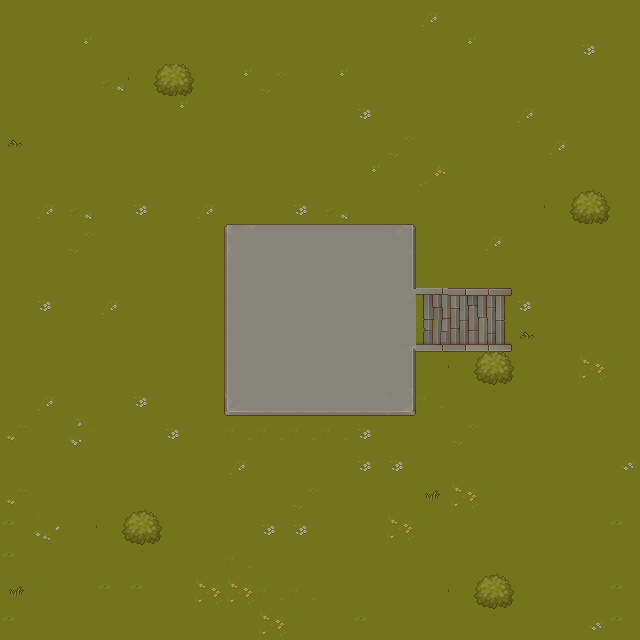
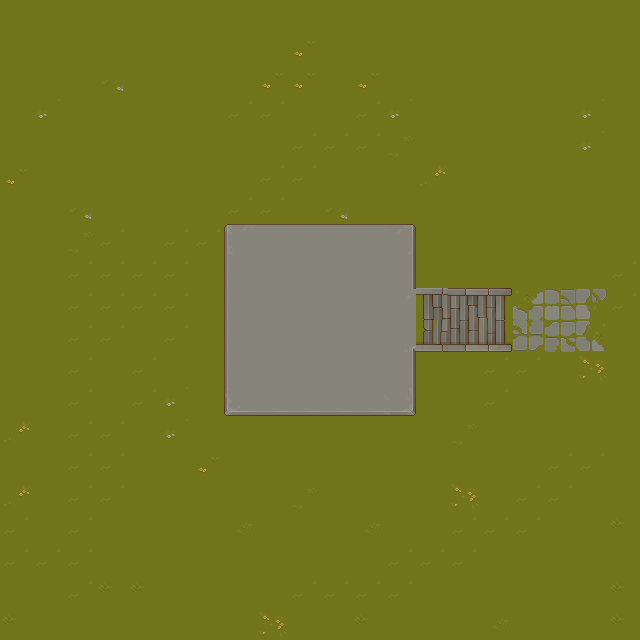
update map loader

diff --git a/src/map/map.ts b/src/map/map.ts
@@ -1,16 +1,68 @@
 import JsonMapParser, {collideMap} from "./jsonMapParser.ts";
 
-
+type mapLayer = {
+    "ground" : {
+        "image": HTMLImageElement,
+        "layer": 0
+    },
+    "treeTrunkAndBushes" : {
+        "image": HTMLImageElement,
+        "layer": 1
+    },
+    "decorations" : {
+        "image": HTMLImageElement,
+        "layer": 1
+    },
+    "player" : {
+        "image": HTMLImageElement,
+        "layer": 2
+    },
+    "treeLeaves" : {
+        "image": HTMLImageElement,
+        "layer": 3
+    },
+    "clouds" : {
+        "image": HTMLImageElement,
+        "layer": 4
+    }
+}
 export default class Map{
     public  collideMap: collideMap[]
     public  mapToLoad: string
     public  map: { image:HTMLImageElement, layer:number }[]
     public canvas: HTMLCanvasElement
+    protected mapLayer : mapLayer
     constructor(mapToLoad: string, canvas: HTMLCanvasElement) {
         this.canvas = canvas
         this.collideMap = []
         this.map = []
         this.mapToLoad = mapToLoad
+        this.mapLayer = {
+            "ground" : {
+                "image": new Image(),
+                "layer": 0
+            },
+            "treeTrunkAndBushes" : {
+                "image": new Image(),
+                "layer": 1
+            },
+            "decorations" : {
+                "image": new Image(),
+                "layer": 1
+            },
+            "player" : {
+                "image": new Image(),
+                "layer": 2
+            },
+            "treeLeaves" : {
+                "image": new Image(),
+                "layer": 3
+            },
+            "clouds" : {
+                "image": new Image(),
+                "layer": 4
+            }
+        }
         this.init()
     }
     init(){
@@ -28,26 +80,14 @@ export default class Map{
             ctx.fillRect(block.x, block.y, block.width, block.height)
         })
     }
+
     loadMap(){
-        const groundImage = new Image()
-        const decoImage = new Image()
-        const treesImage = new Image()
-        try{
-            groundImage.src = `public/map/${this.mapToLoad}/ground.png`
-            decoImage.src = `public/map/${this.mapToLoad}/deco.png`
-            treesImage.src = `public/map/${this.mapToLoad}/trees.png`
-            this.map.push({image:groundImage, layer:0},
-                {image: treesImage, layer: 2},{image: decoImage, layer: 2})
-        } catch (e) {
-            console.log(e)
-        }
-        this.map.forEach((img: { image:HTMLImageElement, layer:number }) => {
-            img.image.onload = () => {
-                const ctx = this.canvas.getContext('2d') as CanvasRenderingContext2D
-                ctx.drawImage(img.image, 0, 0)
-            }
+        Object.keys(this.mapLayer).forEach((key) => {
+          // @ts-ignore
+            this.mapLayer[key].image.src = `../../public/map/${this.mapToLoad}/images/${key}.png`
         })
     }
+
     update(){
         this.map.forEach((img: { image:HTMLImageElement, layer:number }) => {
             const ctx = this.canvas.getContext('2d') as CanvasRenderingContext2D
